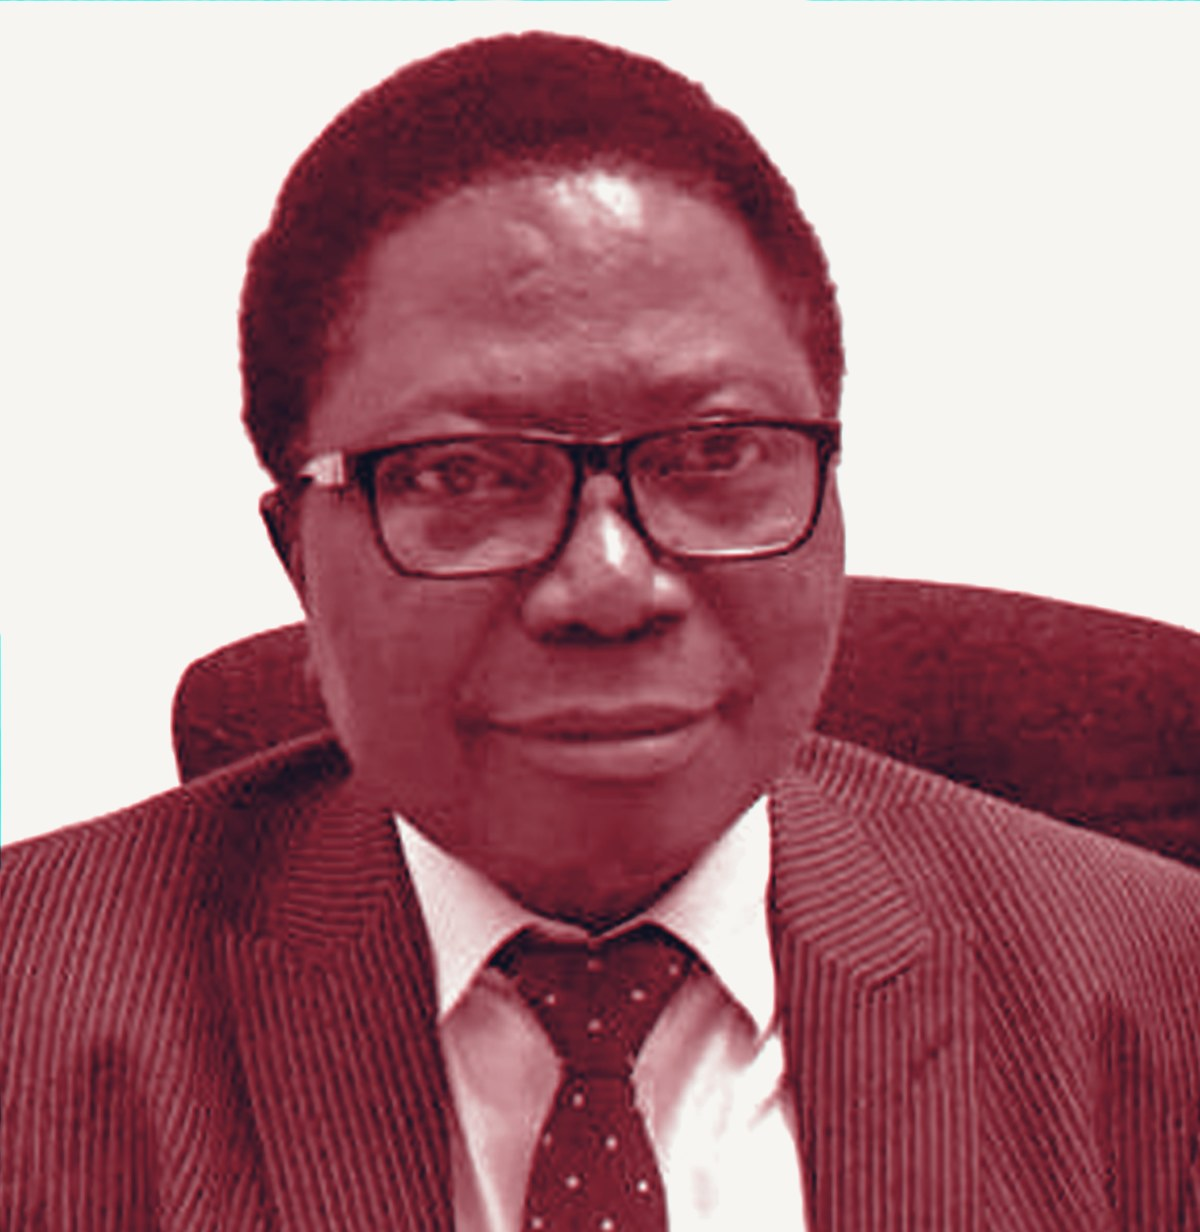
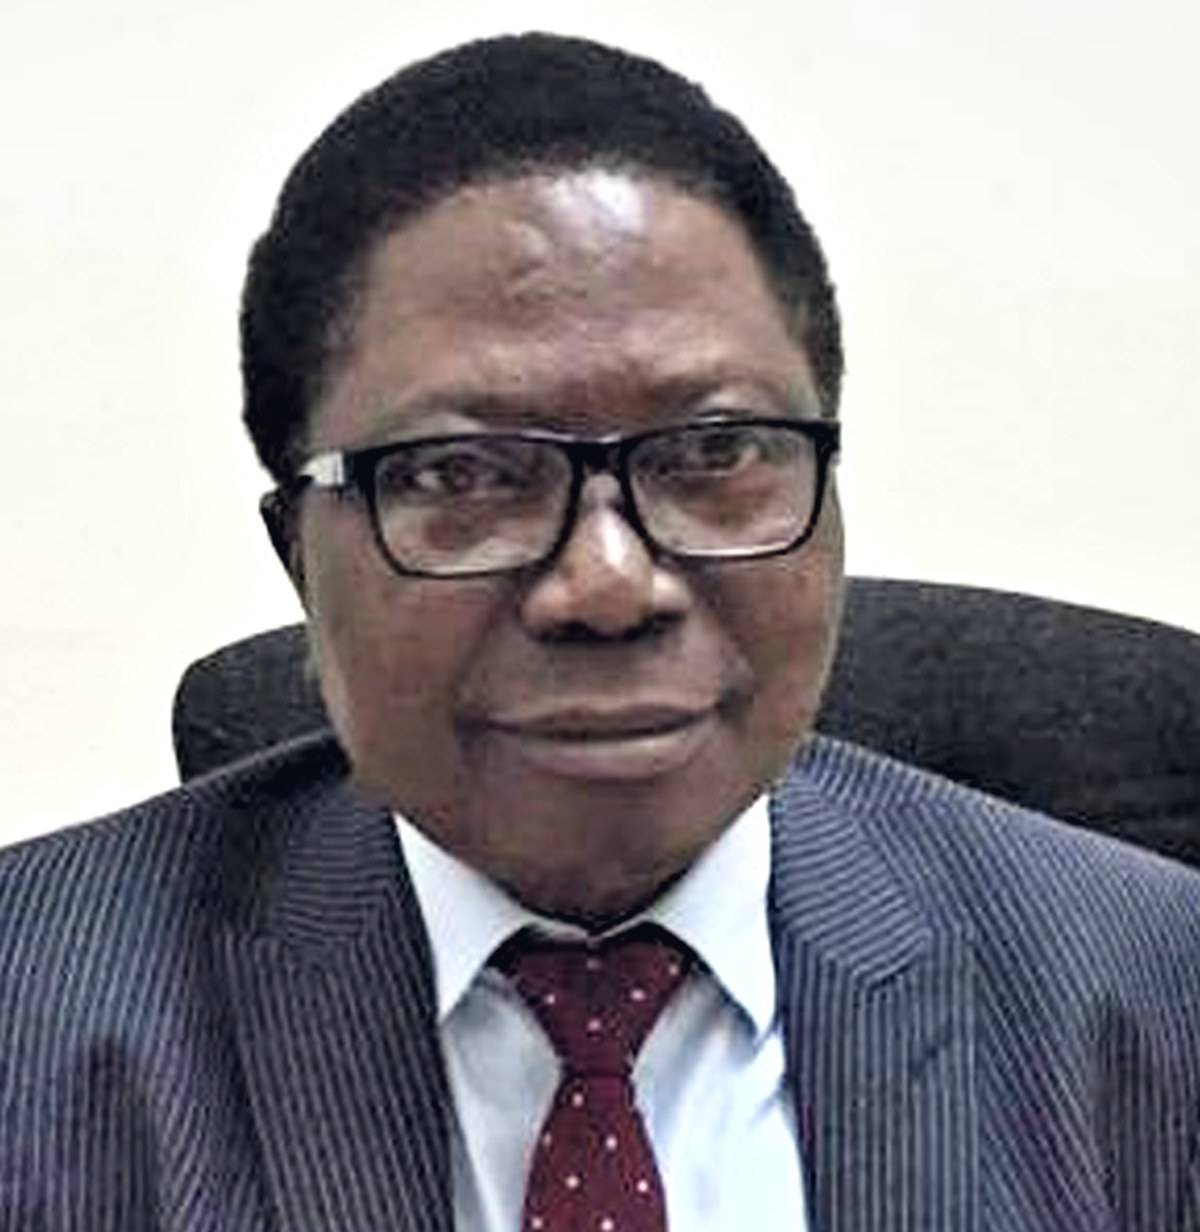
Print site photographs in natural colour instead of claret duotone
The claret duotone, baked into public/plates/ with a claret halftone
screen multiplied over it in CSS, turned every face pink-red. The plates
are re-graded from the original photographs in natural colour: levels
set on brightness so skin keeps its hue, saturation eased slightly, the
black point lifted towards the site's ink so they sit on the page.

scripts/print-plate.py makes the grade reproducible for new portraits.
The halftone screen is now off by default and the claret pass is gone.

diff --git a/components/Plate.jsx b/components/Plate.jsx
@@ -3,10 +3,11 @@ import Image from "next/image";
 /**
  * A plate: a photograph printed on the sheet.
  *
- * The duotone — ink through claret to paper, with the claret plate set a
- * hair out of register — is made once in public/plates/, so the press run
- * costs the browser nothing. The halftone screen is drawn in CSS so it
- * stays crisp at every size the plate is placed at.
+ * Natural colour, graded once in public/plates/ by scripts/print-plate.py
+ * so every photograph shares one look and the browser does no work. The
+ * optional halftone screen is drawn in CSS so it stays crisp at every size
+ * the plate is placed at; it is off by default because over colour it
+ * reads as a mesh across the face.
  *
  * cut — a cut-out subject, printed unaided on the sheet rather than in a box.
  */
@@ -14,7 +15,7 @@ const Plate = ({
   src,
   alt = "",
   cut = false,
-  screen = true,
+  screen = false,
   priority = false,
   sizes = "(min-width: 1024px) 40vw, 100vw",
   className = "",
@@ -30,7 +31,7 @@ const Plate = ({
           fill
           priority={priority}
           sizes={sizes}
-          className={`plate-cut__img object-contain ${imgClassName}`}
+          className={`object-contain ${imgClassName}`}
           style={{ objectPosition }}
         />
       </span>
@@ -45,15 +46,10 @@ const Plate = ({
         fill
         priority={priority}
         sizes={sizes}
-        className={`plate__img object-cover ${imgClassName}`}
+        className={`object-cover ${imgClassName}`}
         style={{ objectPosition }}
       />
-      {screen ? (
-        <>
-          <span aria-hidden className="plate__screen plate__screen--ink" />
-          <span aria-hidden className="plate__screen plate__screen--claret" />
-        </>
-      ) : null}
+      {screen ? <span aria-hidden className="plate__screen" /> : null}
     </span>
   );
 };

diff --git a/app/globals.css b/app/globals.css
@@ -109,10 +109,10 @@ select {
   text-indent: -0.46em;
 }
 
-/* ---------- Plates: two-colour printing ----------
-   The duotone is baked into public/plates/ — ink through claret to paper,
-   the claret plate a hair out of register. What remains here is the screen,
-   which has to be drawn at the size it is placed at to stay crisp.
+/* ---------- Plates ----------
+   Photographs print in their own colour, graded once into public/plates/
+   by scripts/print-plate.py: true skin tones, shadows settling towards the
+   ink. Claret never touches a photograph.
    ------------------------------------------------------------------ */
 
 .plate,
@@ -127,33 +127,17 @@ select {
   background: var(--ink-deep);
 }
 
-.plate__img,
-.plate-cut__img {
-  filter: saturate(1.04) contrast(1.02);
-}
-
-/* The halftone screen: two passes, a hair out of true, so the overlap
-   makes a third value neither ink owns. */
+/* A fine ink screen, light enough to read as paper tooth rather than
+   a mesh laid over the face. */
 .plate__screen {
   position: absolute;
-  inset: -2px;
+  inset: 0;
   z-index: 2;
+  background-image: radial-gradient(rgba(7, 11, 20, 0.9) 0.55px, transparent 0.75px);
   background-size: 3px 3px;
+  mix-blend-mode: multiply;
+  opacity: 0.12;
   pointer-events: none;
-}
-.plate__screen--ink {
-  background-image: radial-gradient(rgba(7, 11, 20, 0.95) 0.7px, transparent 0.8px);
-  mix-blend-mode: multiply;
-  opacity: 0.34;
-}
-.plate__screen--claret {
-  background-image: radial-gradient(
-    rgba(155, 51, 72, 0.95) 0.7px,
-    transparent 0.8px
-  );
-  background-position: 1.5px 1.5px;
-  mix-blend-mode: multiply;
-  opacity: 0.34;
 }
 
 .plate-frame {

diff --git a/scripts/print-plate.py b/scripts/print-plate.py
@@ -1,0 +1,89 @@
+"""Print a photograph as a plate for public/plates/.
+
+    python3 scripts/print-plate.py SOURCE DEST [WIDTH HEIGHT]
+
+Natural colour, graded so every plate on the site looks like it came from
+the same camera: levels are set on brightness alone so skin keeps its own
+hue, saturation is eased back a little, and the deepest shadows settle
+towards the site's ink (#0B1120) instead of flat black. A wide, gentle
+unsharp mask gives faces the local contrast phone photos lack.
+
+Nothing is tinted claret — the brand colour belongs to type and controls,
+never to skin. Needs only Pillow.
+"""
+import sys
+
+from PIL import Image, ImageChops, ImageEnhance, ImageFilter, ImageOps
+
+INK = (11, 17, 32)
+SATURATION = 0.9
+SHADOW_INK = 0.55  # how far black moves towards the ink
+
+
+def curve(v):
+    """A soft S, mid-tones opened a touch."""
+    x = (v / 255) ** 0.94
+    s = x * x * (3 - 2 * x)  # smoothstep
+    return round(max(0, min(1, 0.7 * x + 0.3 * s)) * 255)
+
+
+def levels(rgb, alpha):
+    """Black and white points taken from brightness, applied to every
+    channel alike, so stretching contrast never shifts the colour."""
+    hist = rgb.convert("L").histogram(mask=alpha)
+    total = sum(hist)
+    lo_cut, hi_cut = total * 0.003, total * 0.002
+    lo, acc = 0, 0
+    while acc + hist[lo] <= lo_cut:
+        acc += hist[lo]
+        lo += 1
+    hi, acc = 255, 0
+    while acc + hist[hi] <= hi_cut:
+        acc += hist[hi]
+        hi -= 1
+    span = max(hi - lo, 1)
+    lut = [curve(max(0, min(255, (v - lo) * 255 / span))) for v in range(256)]
+    return rgb.point(lut * 3)
+
+
+def print_plate(src, dest, size=None):
+    im = Image.open(src)
+    im = ImageOps.exif_transpose(im)
+    keep_alpha = dest.lower().endswith(".png") and im.mode in ("RGBA", "LA")
+    alpha = im.getchannel("A") if keep_alpha else None
+    rgb = im.convert("RGB")
+
+    if size and rgb.size != size:
+        rgb = ImageOps.fit(rgb, size, Image.LANCZOS)
+        if alpha is not None:
+            alpha = ImageOps.fit(alpha, size, Image.LANCZOS)
+
+    # Small, re-saved sources carry JPEG blocking that sharpening would
+    # print as grit on skin; settle it first.
+    rgb = rgb.filter(ImageFilter.GaussianBlur(0.5))
+    rgb = levels(rgb, alpha)
+    rgb = ImageEnhance.Color(rgb).enhance(SATURATION)
+
+    long_edge = max(rgb.size)
+    rgb = rgb.filter(
+        ImageFilter.UnsharpMask(radius=long_edge / 28, percent=12, threshold=0)
+    )
+    rgb = rgb.filter(ImageFilter.UnsharpMask(radius=0.9, percent=25, threshold=4))
+
+    # Lift the black point to ink: out = ink + img * (1 - ink).
+    floor = tuple(round(c * SHADOW_INK) for c in INK)
+    scale = Image.new("RGB", rgb.size, tuple(255 - c for c in floor))
+    rgb = ImageChops.add(
+        ImageChops.multiply(rgb, scale), Image.new("RGB", rgb.size, floor)
+    )
+
+    if alpha is not None:
+        rgb.putalpha(alpha)
+        rgb.save(dest, optimize=True)
+    else:
+        rgb.save(dest, quality=88, optimize=True, progressive=True)
+
+
+if __name__ == "__main__":
+    size = (int(sys.argv[3]), int(sys.argv[4])) if len(sys.argv) == 5 else None
+    print_plate(sys.argv[1], sys.argv[2], size)

diff --git a/DESIGN.md b/DESIGN.md
@@ -119,12 +119,12 @@ The site is a printed legal paper, not a web page: one sheet folded into four fa
 
 The register is sober and unadorned. Claret is the one wet ink and it is spent sparingly: the primary action, the numerals, the drawn rule. Light and dark are not decoration but the two sides of the paper — the lead and the notice print on ink, the register and the letters print on stock — so the reader feels the sheet turn rather than a scroll restart.
 
-Density alternates deliberately. The register page is close-set and indexical; the letters page opens out around one portrait printed straight on the paper with its claret plate a hair out of register. Typography carries the authority that photography would otherwise have to borrow.
+Density alternates deliberately. The register page is close-set and indexical; the letters page opens out around one portrait printed straight on the paper. Typography carries the authority that photography would otherwise have to borrow.
 
 **Key Characteristics:**
 - One sheet, four faces, turned; equal page heights; a folio rail at the foot of every face.
 - Two inks only — claret and ink — laid on parchment, paper, bone or linen stock.
-- Duotone plates with real halftone screening, printed as rasters, never as CSS filters.
+- Photographs in natural colour, graded once as rasters (never CSS filters) so they share one look: true skin tones, shadows settling towards the ink. Claret never touches a photograph.
 - Rules, folios and gutters instead of borders, cards and shadows.
 - The phone number, the hours and the address never leave the foot of the sheet.
 
@@ -134,11 +134,11 @@ A restrained two-ink press: one claret, one near-black ink, and four paper stock
 
 ### Primary
 - **Claret** (#7B2130): the firm's wet ink. Primary actions, the folio numeral, the drawn rule under the folio line, the ink-fill hover on register rows.
-- **Claret Bright** (#9B3348): claret at working strength on dark stock — hover states on ink grounds, the folio numeral in a dark rail, the misregistered plate in a cut-out.
+- **Claret Bright** (#9B3348): claret at working strength on dark stock — hover states on ink grounds, the folio numeral in a dark rail.
 - **Claret Deep** (#5A1622): the darkest claret, used inside the plate gradient map and as a settled panel tone on the coupon.
 
 ### Neutral
-- **Ink** (#0B1120): the night edition. Ground for the lead face, the notice face, the masthead, the band, the rail and the footer; also the ink plate in every duotone.
+- **Ink** (#0B1120): the night edition. Ground for the lead face, the notice face, the masthead, the band, the rail and the footer; also the floor the shadows of every plate settle towards.
 - **Ink Deep** (#070B14): recessed ground behind a plate before it paints.
 - **Ink Soft** (#141C2E): the tinted panel the callback form sits on.
 - **Parchment** (#F6F5F1): the default stock — body background, the letters face, text on ink.
@@ -203,8 +203,8 @@ Assemblies are built from two primitives: the **rule** (a horizontal hairline wi
 - **Buttons** — square, uppercase, 11px, tracking 0.16em, 16px vertical padding. Primary is claret fill with parchment text, hover moving to ink on light stock and to parchment on ink. Secondary is a 1px hairline outline that goes to full strength on hover. There is no third ornament: no arrow, no icon, no gradient.
 - **Folio tab** — a text button in the rail: numeral in claret, name in parchment, with a 2px current-page underline drawn from the left by `transform: scaleX`.
 - **Fold tab** — the crease at the right edge of a face, 52px wide, with a vertical `writing-mode: vertical-rl` caption naming the page it turns to, and a gradient of ink reading as the folded edge catching light.
-- **Plate** — a raster duotone at `object-cover` inside a square frame, plus two halftone screens (ink and claret) drawn in CSS, offset 1.5px from each other and multiplied, so the overlap makes a third value. The rasters ship pre-toned from `public/plates/`; the page never tints a photograph at runtime.
-- **Plate cut-out** — a subject with alpha printed unaided on the stock, with its claret plate offset behind it as a misregistered silhouette. No frame.
+- **Plate** — a natural-colour raster at `object-cover` inside a square frame. The rasters ship pre-graded from `public/plates/`, made by `scripts/print-plate.py` from the original photograph (levels set on brightness so skin keeps its hue, saturation eased slightly, black lifted towards the ink); the page never tints a photograph at runtime. An optional ink halftone screen (`screen` prop) exists but is off by default — over colour it reads as a mesh.
+- **Plate cut-out** — a subject with alpha printed unaided on the stock. No frame.
 - **Register row** — a full-bleed link row: claret numeral, Bodoni title over a Spectral blurb, arrow at the right edge. Hover wipes ink across the row from the left and reverses the text to parchment.
 - **Field** — a ruled slip: transparent, no border except a bottom hairline, 15.5px text, placeholder at 4.5:1 or better, claret caret on light stock and claret-bright on ink. The inverse variant lightens the hairline and the text.
 - **Face foot** — the running foot of a page: a hairline with the kicker at the left, a note in the middle, and `Folio X / IV` at the right. It never carries a heading.
@@ -215,14 +215,14 @@ Assemblies are built from two primitives: the **rule** (a horizontal hairline wi
 
 **Do**
 - Do let a rule, a folio or a gutter separate things before reaching for a border or a card.
-- Do print photographs as duotone plates with a visible halftone screen, on the stock that suits the page.
+- Do print photographs in their own colour, graded with `scripts/print-plate.py`. Don't tint them claret (it turns skin pink) and don't convert them to black and white — the firm wants its people shown as they are.
 - Do keep the phone number, the hours and the address on every face, at the foot of the sheet.
 - Do alternate density: a close-set indexical page earns a quiet, open one.
 - Do set display type large and tight, and balance it so no line is widowed at the end.
 - Do keep every 10px rubric legible on its own stock.
 
 **Don't**
-- Don't introduce a third ink, a gradient other than the duotone's, or a tint that is not one of the four stocks.
+- Don't introduce a third ink, a gradient, or a tint that is not one of the four stocks.
 - Don't put a card, a pill, a rounded panel or a drop shadow on anything.
 - Don't animate a layout property; the turn, the rule and the reveal move by transform or opacity only.
 - Don't add a kicker or eyebrow above a heading; a running foot at the page's foot is the world's own device.

diff --git a/PRODUCT.md b/PRODUCT.md
@@ -32,7 +32,7 @@ The name "Church Street Solicitors" and the existing logo asset (public/images/l
 
 ## Evidence on Hand
 
-public/images/ — four hero slides (slide1–slide4), office and team photography (Solicitors-East.png, testimonial.png, aboutus1.jpg, About-Us-2.png, Office.png, marianimage.jpg), the logo, and an area6.jpg background. public/plates/ — three derived duotone plates (lead.jpg from slide1.jpg, office.jpg from Office.png, client.png from testimonial.png), each carrying embedded provenance. Data.js holds the four hero slide records, the six practice-area blurbs, the wire tape and the four faces of the edition. Three real testimonials with attribution (Femi Sotonwa; two from "Lisa") live in components/Testimonial.jsx.
+public/images/ — four hero slides (slide1–slide4), office and team photography (Solicitors-East.png, testimonial.png, aboutus1.jpg, About-Us-2.png, Office.png, marianimage.jpg), the logo, and an area6.jpg background. public/plates/ — natural-colour plates graded by scripts/print-plate.py, including (lead.jpg from slide1.jpg, office.jpg from Office.png, client.png from testimonial.png), each carrying embedded provenance. Data.js holds the four hero slide records, the six practice-area blurbs, the wire tape and the four faces of the edition. Three real testimonials with attribution (Femi Sotonwa; two from "Lisa") live in components/Testimonial.jsx.
 
 ## Product Principles
 
